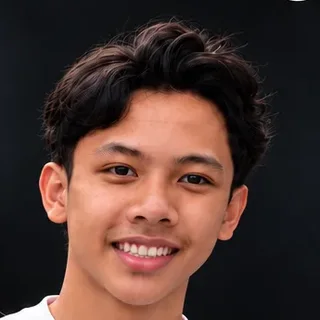
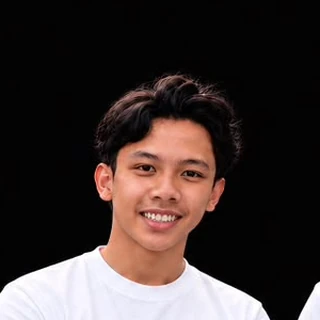
Foto founder diganti dengan sesi foto baru
Banner memakai potongan tanpa logo dan tanpa nama bawaan gambar, supaya nama tetap datang dari teks halaman. Avatar Bagas dan Madani ikut diambil dari foto yang sama.

diff --git a/index.html b/index.html
@@ -1938,7 +1938,7 @@
 <script>(function(){var v=new URLSearchParams(location.search).get("fd");if(/^[abcd]$/.test(v)){var e=document.currentScript.parentNode;e.classList.remove("fd-v-b");e.classList.add("fd-v-"+v)}})();</script>
   <div class="wrap">
     <div class="fd-banner rv">
-      <img class="fd-bg" src="assets/img/founders-banner.webp" alt="Madani Al Fairuz, Co-Founder dan CTO, bersama Bagas Dwi Putra, Founder dan CEO Catalyst Society" loading="lazy" decoding="async" width="940" height="660">
+      <img class="fd-bg" src="assets/img/founders-banner.webp" alt="Madani Al Fairuz, Co-Founder dan CTO, bersama Bagas Dwi Putra, Founder dan CEO Catalyst Society" loading="lazy" decoding="async" width="792" height="562">
       <div class="fd-isi">
         <div class="ab-label"><span class="snum">07</span><span class="rd-l" data-i18n="fd.label">Founders</span></div>
         <ul class="fd-nama">
